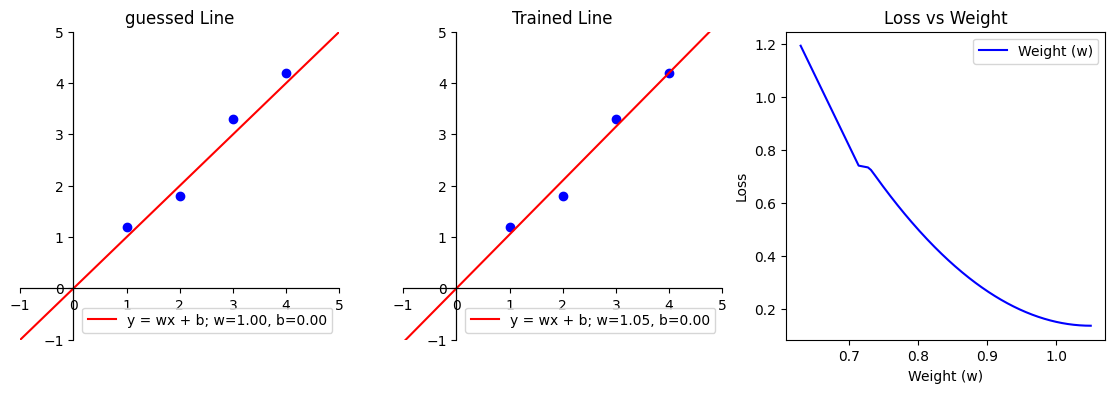
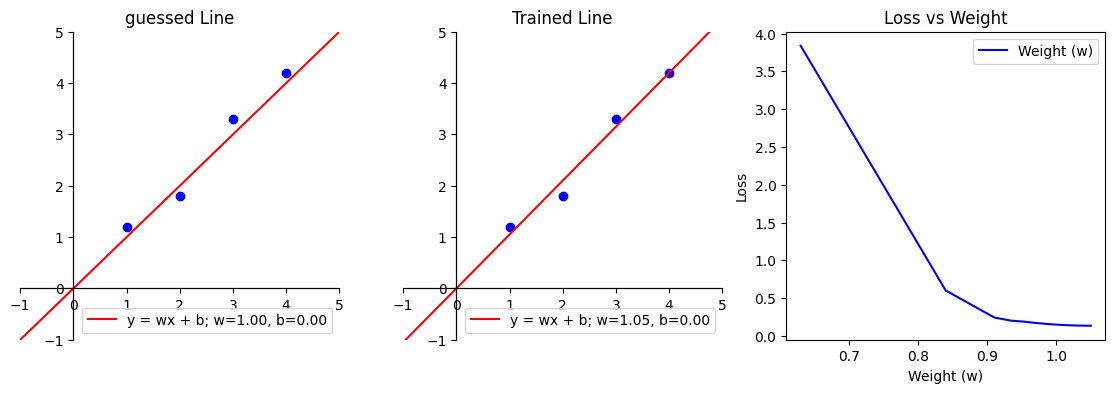
update posts and images

diff --git a/_posts/2025-05-22-core-optimization.md b/_posts/2025-05-22-core-optimization.md
@@ -9,15 +9,15 @@ rating: 2
 
 #### The Little Learner
 
-我长期以来对人工智能领域抱有浓厚兴趣，对神经网络的各种特征充满好奇，对于强化学习、监督、非监督学习等学习形式如数家珍。最近终于对其底层原理进行了学习，所以打算写一个系列博客。本系列的目标是从最基础的概念出发，逐步深入到深度神经网络的原理与实践。
+欢迎来到我的博客！我最近学了深度学习的基础知识，所以打算写一个系列博客解释这些概念。目标是从最基础的概念出发，逐步深入到深度神经网络的原理与实践。这个系列文章的目标读者应该是跟我一样对深度学习技术比较感兴趣，没有基础，但是想要建立一个坚实的基础，或者至少了解基本概念的人。
 
 这一系列文章的内容将会主要来自一本书《The Little Learner: A Straight Line to Deep Learning》。
 
-市面上关于深度学习基础的资料有非常多，为什么要选这本书呢？这就要说起这本书最大的特色了，其实跟作者其他的Little book一样——用苏格拉底式的对话方式进行教学；使用Sheme编程语言。虽然这种写作风格和编程语言并非主流，却深得我心。
+市面上关于深度学习基础的资料有非常多，为什么要选这本书呢？这就要说起这本书最大的特色了，其实跟作者其他的Little book一样——用苏格拉底式的对话方式进行教学；使用Sheme编程语言。虽然这种写作风格和编程语言并非主流，你可能根本都没听过，但却是我的最爱。
 
 不过本系列文章不会采用书中对话的方式，我会尝试自己组织语言来解释这些概念；也不会用scheme语言，而是用大多数人更熟悉的Python。
 
-这个系列文章的目标读者应该是跟我一样对深度学习技术比较感兴趣，没有基础，但是想要建立一个坚实的基础，或者至少了解基本概念的人。跟原书一样，文章仅需要读者理解一些基础的代数和算数的概念。主要的要求是能看懂Pyhon代码，尤其是高级函数、匿名函数和列表推导式等函数式编程中的概念。
+跟原书一样，文章仅需要读者理解一些基础的代数和算数的概念。主要的要求是能看懂Pyhon代码。因为代码风格参考Scheme，因此会大量使用高阶函数、匿名函数和列表推导式等函数式编程中的概念，需要读者先行了解。
 
 #### 简单线性函数
 
@@ -26,7 +26,7 @@ rating: 2
 
 ![线性函数](/assets/images/line.png)
 
-自变量x和因变量y的关系被表示成一条直线，因此也叫做线性函数。如果w的值改变y对于x的变化率会提升，如果b改变则整条直线会上下移动。
+自变量x和因变量y的关系在平面直角坐标系中表示为一条直线时，这样的函数称为一次函数，也常被称为线性函数（在初中数学里）。如果w的值改变y对于x的变化率会提升，如果b改变则会使整条直线会上下移动。
 
 现在我们尝试用代码表示这个函数
 ```python
@@ -38,7 +38,9 @@ def line(x: float) -> Callable[[float, float], float]:
     
     return lambda w, b: w * x + b
 ```
-这里line是一个高阶函数，当被调用时，它返回一个匿名函数。返回的函数需要w 和b两个参数，并从w和b得到最终结果，也就是因变量的值。如果不熟悉高级函数而觉得难以理解的话，可以想象成一个函数接收x、w和b三个参数。之所以使用高级函数是因为之后处理自变量和系数以及偏移量的逻辑不相同。
+这里line是一个高阶函数，当被调用时，它返回一个匿名函数。返回的函数需要w 和b两个参数，并从w和b得到最终结果，也就是因变量的值。
+
+如果不熟悉高级函数而觉得难以理解的话，可以想象成一个函数接收x、w和b三个参数。之所以使用高级函数是因为之后处理自变量和系数以及偏移量的逻辑不相同。
 
 看一个例子来帮助理解：假如知道w和b的值是1和0，想求x等于2的时候y的值。首先把2传给函数line，得到一个函数，再把1和0传给这个函数得到最终结果。
 ```python
@@ -53,9 +55,9 @@ print(result)  # 输出 2
 
 这里x就是自变量，也叫输入，在程序中是函数的参数；因变量y是x对应的输出值，也是函数的返回值。
 
-x和y的值的集合在一起被称为**数据集（dataset）**；一个x和对应的y叫做一个**数据点（data point）或样本（sample）**；w和b被称为**参数**，一起被称为**参数集（parameters）**，用希腊字母$θ (theta)$表示。在本文的例子中，$θ = [w, b]$。
+x和y的值的集合在一起被称为**数据集（dataset）**；一个x和对应的y叫做一个**数据点（data point）或样本（sample）**；w和b被称为**参数（parameter）**，一起被称为**参数集（parameter set）**，用希腊字母$θ (theta)$表示。在本文的例子中，$θ = [w, b]$。
 
-现在假设有一组x的值 [2.0, 1.0, 4.0, 3.0] 和对应的y的值 [1.8, 1.2, 4.2, 3.3]，让我们确定w和b。
+现在假设有一组x的值 $[2.0, 1.0, 4.0, 3.0]$ 和对应的y值 $[1.8, 1.2, 4.2, 3.3]$，需要推导w和b。
 
 可以画图表示这些数据点：
 
@@ -67,11 +69,11 @@ x和y的值的集合在一起被称为**数据集（dataset）**；一个x和对
 
 #### 思路
 
-一个思路是使用**迭代优化(successive approximations)**的方法：先随机猜一组w和b的值，然后检查在该w和b值下，计算出来的y的值（我们称之为预测值y^）和正确的y之间的差距。然后不断调整w和b直到差距接近0。
+一个思路是使用 **迭代优化(successive approximations)** 的方法：先随机猜一组w和b的值，然后检查在该w和b值下，计算出来的y的值（我们称之为预测值y^）和正确的y之间的差距。然后不断调整w和b直到差距接近0。
 
-如果我们随机选取 $θ = [0.0, 0.0]$ 即 $( w=0.0, b=0.0)$，对于数据点 $(x=2.0, y=1.8)$，预测的y值 line(2.0)(0.0, 0.0) 是 0.0。那么该参数下的预测值（通常表示为 ŷ, 读作 y-hat，就是给y带了一个帽子加以区分的意思）ŷ和y的差距是 $1.8 - 0 = 1.8$。这个数字也叫 **损失（loss）**或者 **成本（cost）** (从数学上来说loss和cost是有区别的，一个代表单个训练样本的预测误差，一个代表整个训练集的预测误差，但是本文不区分二者)，它告诉我们当前的参数集$θ$距离“完美”拟合数据还有多大的改进空间。
+如果我们随机选取 $θ = [0.0, 0.0]$ 即 $( w=0.0, b=0.0)$，对于数据点 $(x=2.0, y=1.8)$，预测的y值 line(2.0)(0.0, 0.0) 是 0.0。那么该参数下的预测值（通常表示为 ŷ, 读作 y-hat，就是给y带了一个帽子加以区分的意思）ŷ和y的差距是 $1.8 - 0 = 1.8$。这个数字也叫 **损失（loss** 或者 **成本（cost）** (从数学上来说loss和cost是有区别的，一个代表单个训练样本的预测误差，一个代表整个训练集的预测误差，但是本文不区分二者)，它告诉我们当前的参数集$θ$距离“完美”拟合数据还有多大的改进空间。
 
-把这个过程写成函数，就能很容易得到某个θ下某个x值的损失:
+把这个过程写成函数，就能很容易得到某个$θ$下某个x值的损失:
 ```python
 def loss_single(x: float, y: float, theta: list[float]) -> float:
     
@@ -84,12 +86,13 @@ def loss_single(x: float, y: float, theta: list[float]) -> float:
 
 首先这个函数一次只处理一个值，我们希望它能对上面的数据集进行操作，因此需要改写line函数；其次，我们希望得到一个单一的数值来整体衡量误差大小，而非一个误差列表——列表无法直观地给出总体误差的度量。因此我们把所有的值加起来：
 ```python
-
+# 让line函数处理数组而不是单个数值
 def line(xs: Iterable[float]) -> Callable[[float, float], List[float]]:
     
     return lambda w, b: [w * x + b for x in xs]
 
-# 需要先实现向量减法
+# 需要先实现向量减法作为辅助函数，使得
+# [a, b] - [c, d] = [a - c, b - d]……
 def sub(ms: Iterable[float], ns: Iterable[float]) -> List[float]:
     
     return [m - n for m, n in zip(ms, ns)]
@@ -97,7 +100,7 @@ def sub(ms: Iterable[float], ns: Iterable[float]) -> List[float]:
 def loss(xs: Iterable[float], ys: Iterable[float], theta: list[float]):
 
     pred_ys = line(x)(*theta)
-    errors = subt(ys, pred_ys)
+    errors = sub(ys, pred_ys)
     return sum(errors)
 ```
 
@@ -115,14 +118,14 @@ def sqr(xs: Iterable[float]) -> List[float]:
 def l2_loss(xs: Iterable[float], ys: Iterable[float], theta: List[float]) -> float:
     
     pred_ys = line(xs)(*theta)
-    errors = subt(ys, pred_ys)
+    errors = sub(ys, pred_ys)
     return sum(sqr(errors))
 
 ```
 
-我们的目标是找到一个θ，使得整个数据集上所有数据点的L2损失之和最小。也就是说我们需要套用损失函数，求出误差值作为参考不断迭代θ。在这个过程中l2_loss函数是我们优化的目标，也把它被称为**目标函数（objective function）**，有时候会用英文字母$J$表示。
+我们的目标是找到一个$θ$，使得整个数据集上所有数据点的L2损失之和最小。也就是说我们需要套用损失函数，求出误差值作为参考不断迭代$θ$。在这个过程中l2_loss函数是我们优化的目标，也把它被称为**目标函数（objective function）**，有时候会用英文字母$J$表示。
 
-我们不希望在每次更新θ时都重复传入整个数据集；而且这个函数的内部调用了line函数，这意味着当前的l2_loss函数与line模型强耦合。我们更希望构建一个通用的损失函数，能够适配不同的模型。这两个问题可以通过把该函数改写成高阶函数来解决——我们把Line函数, xs, ys作为外层函数的参数，将模型函数和目标数据固定下来（这种方式称为闭包），生成一个只依赖于θ的损失函数：
+我们不希望在每次更新$θ$时都重复传入整个数据集；而且这个函数的内部调用了line函数，这意味着当前的l2_loss函数与line模型强耦合；我们希望构建一个通用的损失函数，能够适配不同的模型。这两个问题可以通过把该函数改写成高阶函数来解决——把Line函数, xs, ys作为外层函数的参数，将模型函数和目标数据固定下来（这种方式称为闭包），生成一个只依赖于$θ$的损失函数：
 ```python
 
 def l2_loss(target: Callable[[Iterable[float]], Callable[[float, float], List[float]]]) -> Callable:
@@ -132,7 +135,7 @@ def l2_loss(target: Callable[[Iterable[float]], Callable[[float, float], List[fl
         def objective(theta: list[float]) -> float:
             
             pred_ys = target(xs)(*theta)
-            errors = subt(ys, pred_ys)
+            errors = sub(ys, pred_ys)
             return sum(sqr(errors)) 
         return objective
     return expectant
@@ -156,22 +159,24 @@ print(f"使用 θ = {initial_theta} 时，总L2损失为: {current_loss}")
 
 
 #### 迭代
-现在有了l2_loss函数作为objective函数，来告诉我们预测误差，下一步则是改变θ的值，并观察误差的变化。比如增加一点$θ[0]$也就是w的值到$0.0099$，得到的结果差不多是$32.59$。也就是当w值增加了一点点的时候误差值减少了一点点。看来只需要不断重复这个过程就能得到一个更精确的值。
+现在有了l2_loss函数，它作为objective函数来告诉我们预测误差，下一步需更新$θ$的值，并观察误差的变化。比如增加一点$θ[0]$也就是w的值到$0.0099$，计算`line_objective([0.0099, 0])`得到的结果差不多是$32.59$。也就是当w值增加了一点点的时候误差值减少了一点点。看来只需要不断重复这个过程就能得到一个更精确的值。
 
 写一个函数来帮助完成迭代过程：
 ```python
 def revise(revision_func: Callable[[list[float]], List[float]],
            num_revisions: int,
            initial_theta: List[float]) -> List[float]:
-   
-    current_theta = initial_theta
+
+    update_history = [initial_theta]
+
     for _ in range(num_revisions):
-        current_theta = revision_func(current_theta)
-    return current_theta
+        current_theta = revision_func(update_history[-1])
+        update_history.append(current_theta)
+    return update_history
 
 ```
 
-这个函数有三个参数：第一个是迭代函数或者叫做优化算法它告诉我们如何迭代θ的值；第二个是迭代次数；第三个是初始化的θ值。
+这个函数有三个参数：第一个是迭代函数或者叫做优化算法它告诉我们如何迭代$θ$的值；第二个是迭代次数；第三个是初始化的$θ$值。
 
 接下来需要一个迭代算法。比如每次让w的值比之前增加0.01，迭代200次，看看l2_loss的变化：
 ```python
@@ -183,23 +188,13 @@ def update_v0(theta: List[float]) -> List[float]:
     return [w, b]
 
 ```
-为了观察损失值随参数θ的变化情况，我们需要记录每次更新后的θ值及其对应的损失：
+为了观察损失值随参数$θ$的变化情况，我们需要记录每次更新后的$θ$值及其对应的损失：
 ```python
-# 写一个高阶函数包装update_v0函数
-# 这段代码只是收集了ws和losses数据用于可视化，跟后文没什么关系。可以不关注其实现。
-ws = []
-losses = []
-def update_with_loss(update_func: Callable) -> Callable:
 
-    def wrapper(theta: List[float]) -> List[float]:
-        
-        new_theta = update_func(theta)
-        ws.append(new_theta[0])
-        losses.append(objective(new_theta))
-        return new_theta
-    return wrapper
+training_history = revise(update_v0, 200, initial_theta)
 
-new_theta = revise(update_with_loss(update_v0), 200, initial_theta)
+ws = [theta[0] for theta in training_history]
+losses = [objective(theta) for theta in training_history]
 ```
 绘制w和loss的关系图得到：
 
@@ -211,4 +206,4 @@ new_theta = revise(update_with_loss(update_v0), 200, initial_theta)
 
 在文章的最后，让我们回顾一下本文的核心内容。本文其实只讲了一个核心主题——**优化机制(Optimization Mechanism）**，也就是如何调整模型参数以最小化或最大化目标函数的过程。它是机器学习的数学引擎，贯穿模型训练的始终。
 
-本文是从最简单的线性函数出发，在本系列后面的文章中会看见更复杂的线性函数，非线性函数以及神经网络等复杂模型；L2损失函数，作为目标函数，是本文的重点内容，之后也会多次被使用。之后也会了解其他类型的目标函数；本文还未涉及到合理的优化算法，下一篇文章将会介绍深度学习中最核心的优化算法——梯度下降，敬请期待。
+本文是从最简单的线性函数出发，在本系列后面的文章中会看见更复杂的线性函数，非线性函数以及神经网络等复杂模型；L2损失函数，作为目标函数，是本文的重点内容，希望读者能掌握。之后也会了解其他类型的目标函数；本文还未涉及到合理的优化算法，下一篇文章将会介绍深度学习中最核心的优化算法——梯度下降，敬请期待。

diff --git a/_posts/2025-05-28-gradient-descent.md b/_posts/2025-05-28-gradient-descent.md
@@ -66,29 +66,26 @@ def nabla(objective_func: Callable[[List[float]], float],
           theta: List[float], 
           delta: float = 1e-6) -> List[float]:
     
-    gradients = []
     current_loss = objective_func(theta)
+    
+    def get_grad(theta: List[float], i: int) -> float:
 
-    for i in range(len(theta)):
-        
-        perturbed_theta = theta.copy()
-        # 操作副本，避免副作用
-        perturbed_theta[i] += delta
-        perturbed_loss = objective_func(theta)
-        gradient_component = (perturbed_loss - current_loss) / delta
-        gradients.append(gradient_component)
+        theta[i] += delta
+        new_loss = objective_func(theta)
+        return (new_loss - current_loss) / delta
 
+    gradients = [get_grad(theta.copy(), i) for i in range(len(theta))]
     return gradients
 ```
-这个函数看起来复杂了一些，但是其实只是遍历每一个参数，求出梯度并保存在列表而已。有了计算梯度的方法，接下来我们利用梯度信息来更新参数。
+这个函数看起来复杂了一些，但是其实先把计算导数的逻辑抽象出来，然后用列表推导式遍历参数而已。有了计算梯度的方法，接下来我们利用梯度信息来更新参数。
 
 #### 学习率：优化步伐的调节器
 
-"梯度包含两个关键信息：
+梯度包含两个关键信息：
 
 1. 方向（符号）：负梯度指示目标函数下降方向
 
-2. 强度（绝对值）：值越大表示优化空间越大"
+2. 强度（绝对值）：值越大表示优化空间越大
 
 但是具体做出多大的调整（确定具体步长）依然是一个问题。
 
@@ -110,7 +107,7 @@ print(line_objective(new_theta))
 这个参数的出来的损失高达$113,763.027$！这就像从山坡上跳向谷底，结果飞过了整个山谷，并且冲上了天空。
 
 
-为了解决这个问题，我们用一个小常数(通常0.001-0.1)乘以梯度，来控制更新步伐。 这个小的常数叫做**学习率(Learning Rate)**，用希腊字母$\alpha$表示。
+为了解决这个问题，我们用一个小常数(通常$0.001-0.1$)乘以梯度，来控制更新步伐。 这个小的常数叫做**学习率(Learning Rate)**，用希腊字母$\alpha$表示。
 
 下面的例子中会让学习率等于0.01。引入变化率会使每次参数的更新量很小，但是确保了损失在稳步下降。
 
@@ -132,14 +129,17 @@ learning_rate = 0.01
 
 def update_v1(theta: List[float]) -> List[float]:
   
+    # 求导
     grad = nabla(line_objective, theta)
+    # 根据导数g和学习率learning_rate更新参数
+    # 这里假设了p和g都是数值，可以直接应用乘法和减法
     return [p - learning_rate * g for p, g in zip(theta, grad)]
 
 ```
 测试一下这个更新函数好不好用：
 ```python
 
-last_theta = revise(update_with_loss(update_v1), 1000, initial_theta)
+theta_history = revise(update_with_loss(update_v1), 1000, initial_theta)
 ```
 得到的结果是[1.0499806157842302, 6.016510481423397e-05]这跟我们之前预测非常接近，画图来看几乎看不出区别。
 从目标函数值的变化率也可以看出来，损失在逐渐接近0。
@@ -155,17 +155,19 @@ def gradient_descent(objective_func: Callable[[List[float]], float],
                      initial_theta: List[float],
                      learning_rate: float,
                      num_revisions: int) -> List[float]:
-   
+
+    # 与update_v1相同
     def update(theta: List[float]) -> List[float]:
         
         grad = nabla(objective_func, theta)
+        
         revised_theta = [p - learning_rate * g for p, g in zip(theta, grad)]
         return revised_theta
 
     return revise(update, num_revisions, initial_theta)
 
 ```
-该函数内部是经过了两次再版的update函数，它是根据梯度下降这个接口函数的参数生成的。然后又调用`revise`函数来更新参数。
+首先复制之前的update_v1……不过它在gradient_descent函数内部，这意味这它是一个闭包结构：它访问函数内部的目标函数，而不是全局作用域的。最后调用`revise`函数来更新参数。
 
 为验证梯度下降的泛化能力，我们尝试二次函数拟合任务。
 
@@ -194,12 +196,12 @@ optimized_quad_theta = gradient_descent(
     initial_theta=initial_quad_theta,
     learning_rate=0.001,  
     num_revisions=1000   
-)
+)[-1]
 
 print(f"二次函数参数: a={optimized_quad_theta[0]:.4f}, b={optimized_quad_theta[1]:.4f}, c={optimized_quad_theta[2]:.4f}")
 ```
 输出示例：
-二次函数参数: `二次函数参数: a=1.4730, b=1.0132, c=2.0440`
+二次函数参数: `二次函数参数: a=1.4787, b=0.9929, c=2.0546`
 可是化数据和训练结果：
 ![二次函数训练结果](/assets/images/quadratic.png)
 
@@ -240,9 +242,11 @@ optimized_plane_theta = gradient_descent(
 )
 # TypeError: 'float' object is not iterable
 ```
-运行后出现类型错误。原因在于：当前`nabla`函数假设参数是平展列表(flat list)，但高维模型中的参数可能是嵌套结构（如权重向量和偏置标量组合）。这暴露了当前实现的维度局限性。
+运行后出现类型错误。原因在于：当前`nabla`和`update`函数都假设参数是平展列表(flat list)，也就是列表的元素都是浮点数，但高维模型中的参数可能是嵌套结构（比如这里每一个输入和每一个权重也是一个数组结构）。这暴露了当前实现的维度局限性。
 
-修改nabla和subt函数能让测试通过，可以自行尝试，但是这里不给出代码，因为下一篇文章我们会用一种更优雅的方式解决这个问题。
+修改nabla和update函数能让测试通过，可以自行尝试。要想比较优雅地解决这个问题，还需要先学习一个概念，我们下一篇文章处理。
+
+有趣的是，书中这个测试也通过了。原因是书中更早的时候就介绍了更复杂和数据结构以及操作；而且并没有给出nabla函数——也就是数值微分——的实现方案，想尝试书中代码的时候也只需要调用库函数。这么设计的原因是想专注于理解神经网络的相关概念。对微积分比较了解的朋友可以想一想怎么用链式法则来完成自动求导。
 
 #### 总结
 在本文中，我们深入探索了梯度下降算法。其核心在于：  
@@ -252,7 +256,7 @@ optimized_plane_theta = gradient_descent(
 
 通用性验证：成功应用于线性、二次函数的拟合。
 
-恭喜，读完本文你已经了解了整个训练线性模型/学习参数的过程。不过当前实现是梯度下降的基础版本，后续将探索更多变体和优化方案。况且你还不知道这跟神经网络甚至深度学习到底有什么关系。
+恭喜，读完本文你已经了解了整个训练线性模型/学习参数的过程。不过当前实现是梯度下降的基础版本，后续将探索更多变体和优化方案。况且你可能还不知道这跟神经网络或者深度学习到底有什么关系。
 
 当前急需解决的问题是基于列表实现的函数无法处理高维数组。虽然可以暂时修改函数的实现逻辑来临时解决问题，但是更好的办法是寻找一个通用的解决方案，而这正是下一篇文章的主题。我们将会从一个非常酷的概念——**张量（tensor）**入手，到彻底解决所有高维数组操作问题。
 

diff --git a/_posts/2025-02-05-nanopi-r2s-arch-linux.md b/_posts/2025-02-05-nanopi-r2s-arch-linux.md
@@ -6,17 +6,13 @@ categories: jekyll update
 rating: 1
 ---
 
-### 我想装Arch Linux
-最近我给自己的Nanopi-R2s上安装了Arch Linux。
+### 想装Arch Linux
+最近我给自己的Nanopi-R2s上安装了Arch Linux，这里记录一下心得。本文写适合那些想了解计算机启动过程的朋友，当然，对于想给自己的ARM设备刷ArchLinuxARM的朋友也会有帮助。
 
-如果用R2s做软路由，用OpenWRT官方固件就很好。厂商也提供了Ubuntu/Debian镜像。
+在没有官方支持的硬件上部署Arch Arm对新手来说有难度，但同时也是深入理解Linux底层架构机会——这正是Arch的价值，它强制用户直面底层配置。
 
-虽然使用这些镜像可以更快速部署，但我更想借这个机会深入理解Linux底层架构——这正是Arch的价值，它强制用户直面底层配置。尽管这对新手而言充满挑战，不过Arch提供非常全面和详细的文档。过程具有挑战性，但也提供了很好的支持，这是最佳的学习机会。
+网上虽然有一些教程可供参考，但是大多数都只提供操作步骤，如果不理解每个步骤的意义，出了问题就会很难处理。我不打算也写一篇那样的教程，而是会对比PC架构，聊一下ARM的启动过程，然后详细解释部署流程。
 
-网上虽然有一些教程可供参考，但是大多数都只提供操作步骤，如果不理解每个步骤的意义，出了问题就会很难处理。
-我不打算也写一篇那样的教程，而是会对比PC架构，聊一下ARM的启动过程，然后详细解释部署流程。
-
-这篇文章是写给还没有刷Arch之前的自己，适合那些想了解计算机启动过程的朋友，当然，对于想给自己的ARM设备刷ArchLinuxARM的朋友也会有帮助。
 
 ### ARM 设备的启动流程
 要成功部署系统，首先要理解设备从通电到系统就绪的全过程。我们将其简化为三个阶段：。
